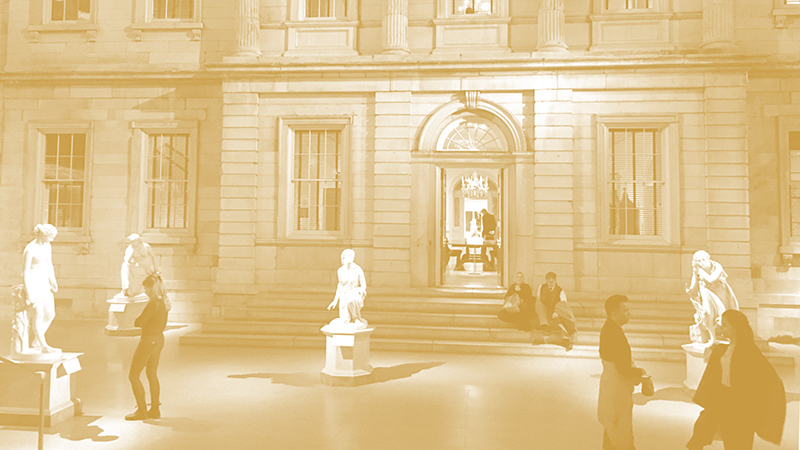
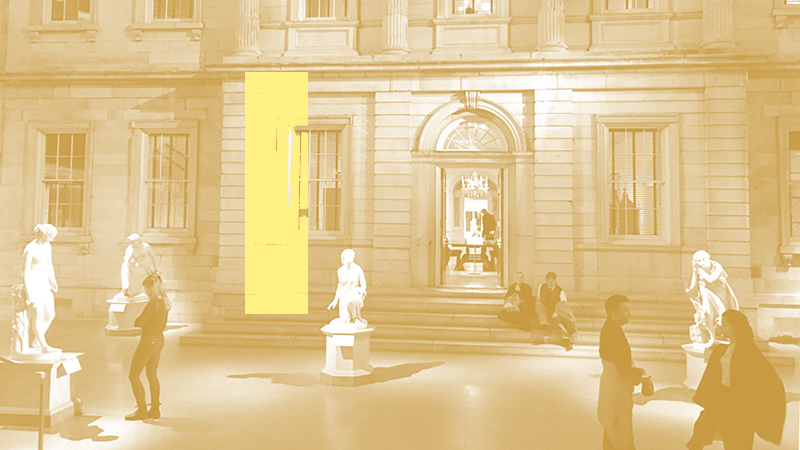
uploaded backgrounds for 958 and temple room jpgs

Changed region(s): [[0.2812, 0.1556, 0.4062, 0.7156]]

diff --git a/www/js/room_958.js b/www/js/room_958.js
@@ -82,7 +82,7 @@ function preload() {
     jungles.push(jungle);
   }
 
- img = loadImage("https://raw.githubusercontent.com/scottreitherman/ambient_MET/master/www/img/room_958_web.jpg");
+ img = loadImage("https://raw.githubusercontent.com/scottreitherman/ambient_MET/master/www/img/room_958_web_2.jpg");
 }
 
 function setup() {

diff --git a/platforms/ios/www/js/room_european.js b/platforms/ios/www/js/room_european.js
@@ -258,7 +258,7 @@ Ball.prototype.checkEdges = function() {
       chime = chimes[Math.floor(random(0, 5))];
       chime.play();
       // reverb.process(chime, 3, 2);
-      chime.setVolume(0.5);
+      chime.setVolume(0.1);
 
     } else if (this.sound === 5) {
       brassbowl = brassbowls[Math.floor(random(0, 7))];
